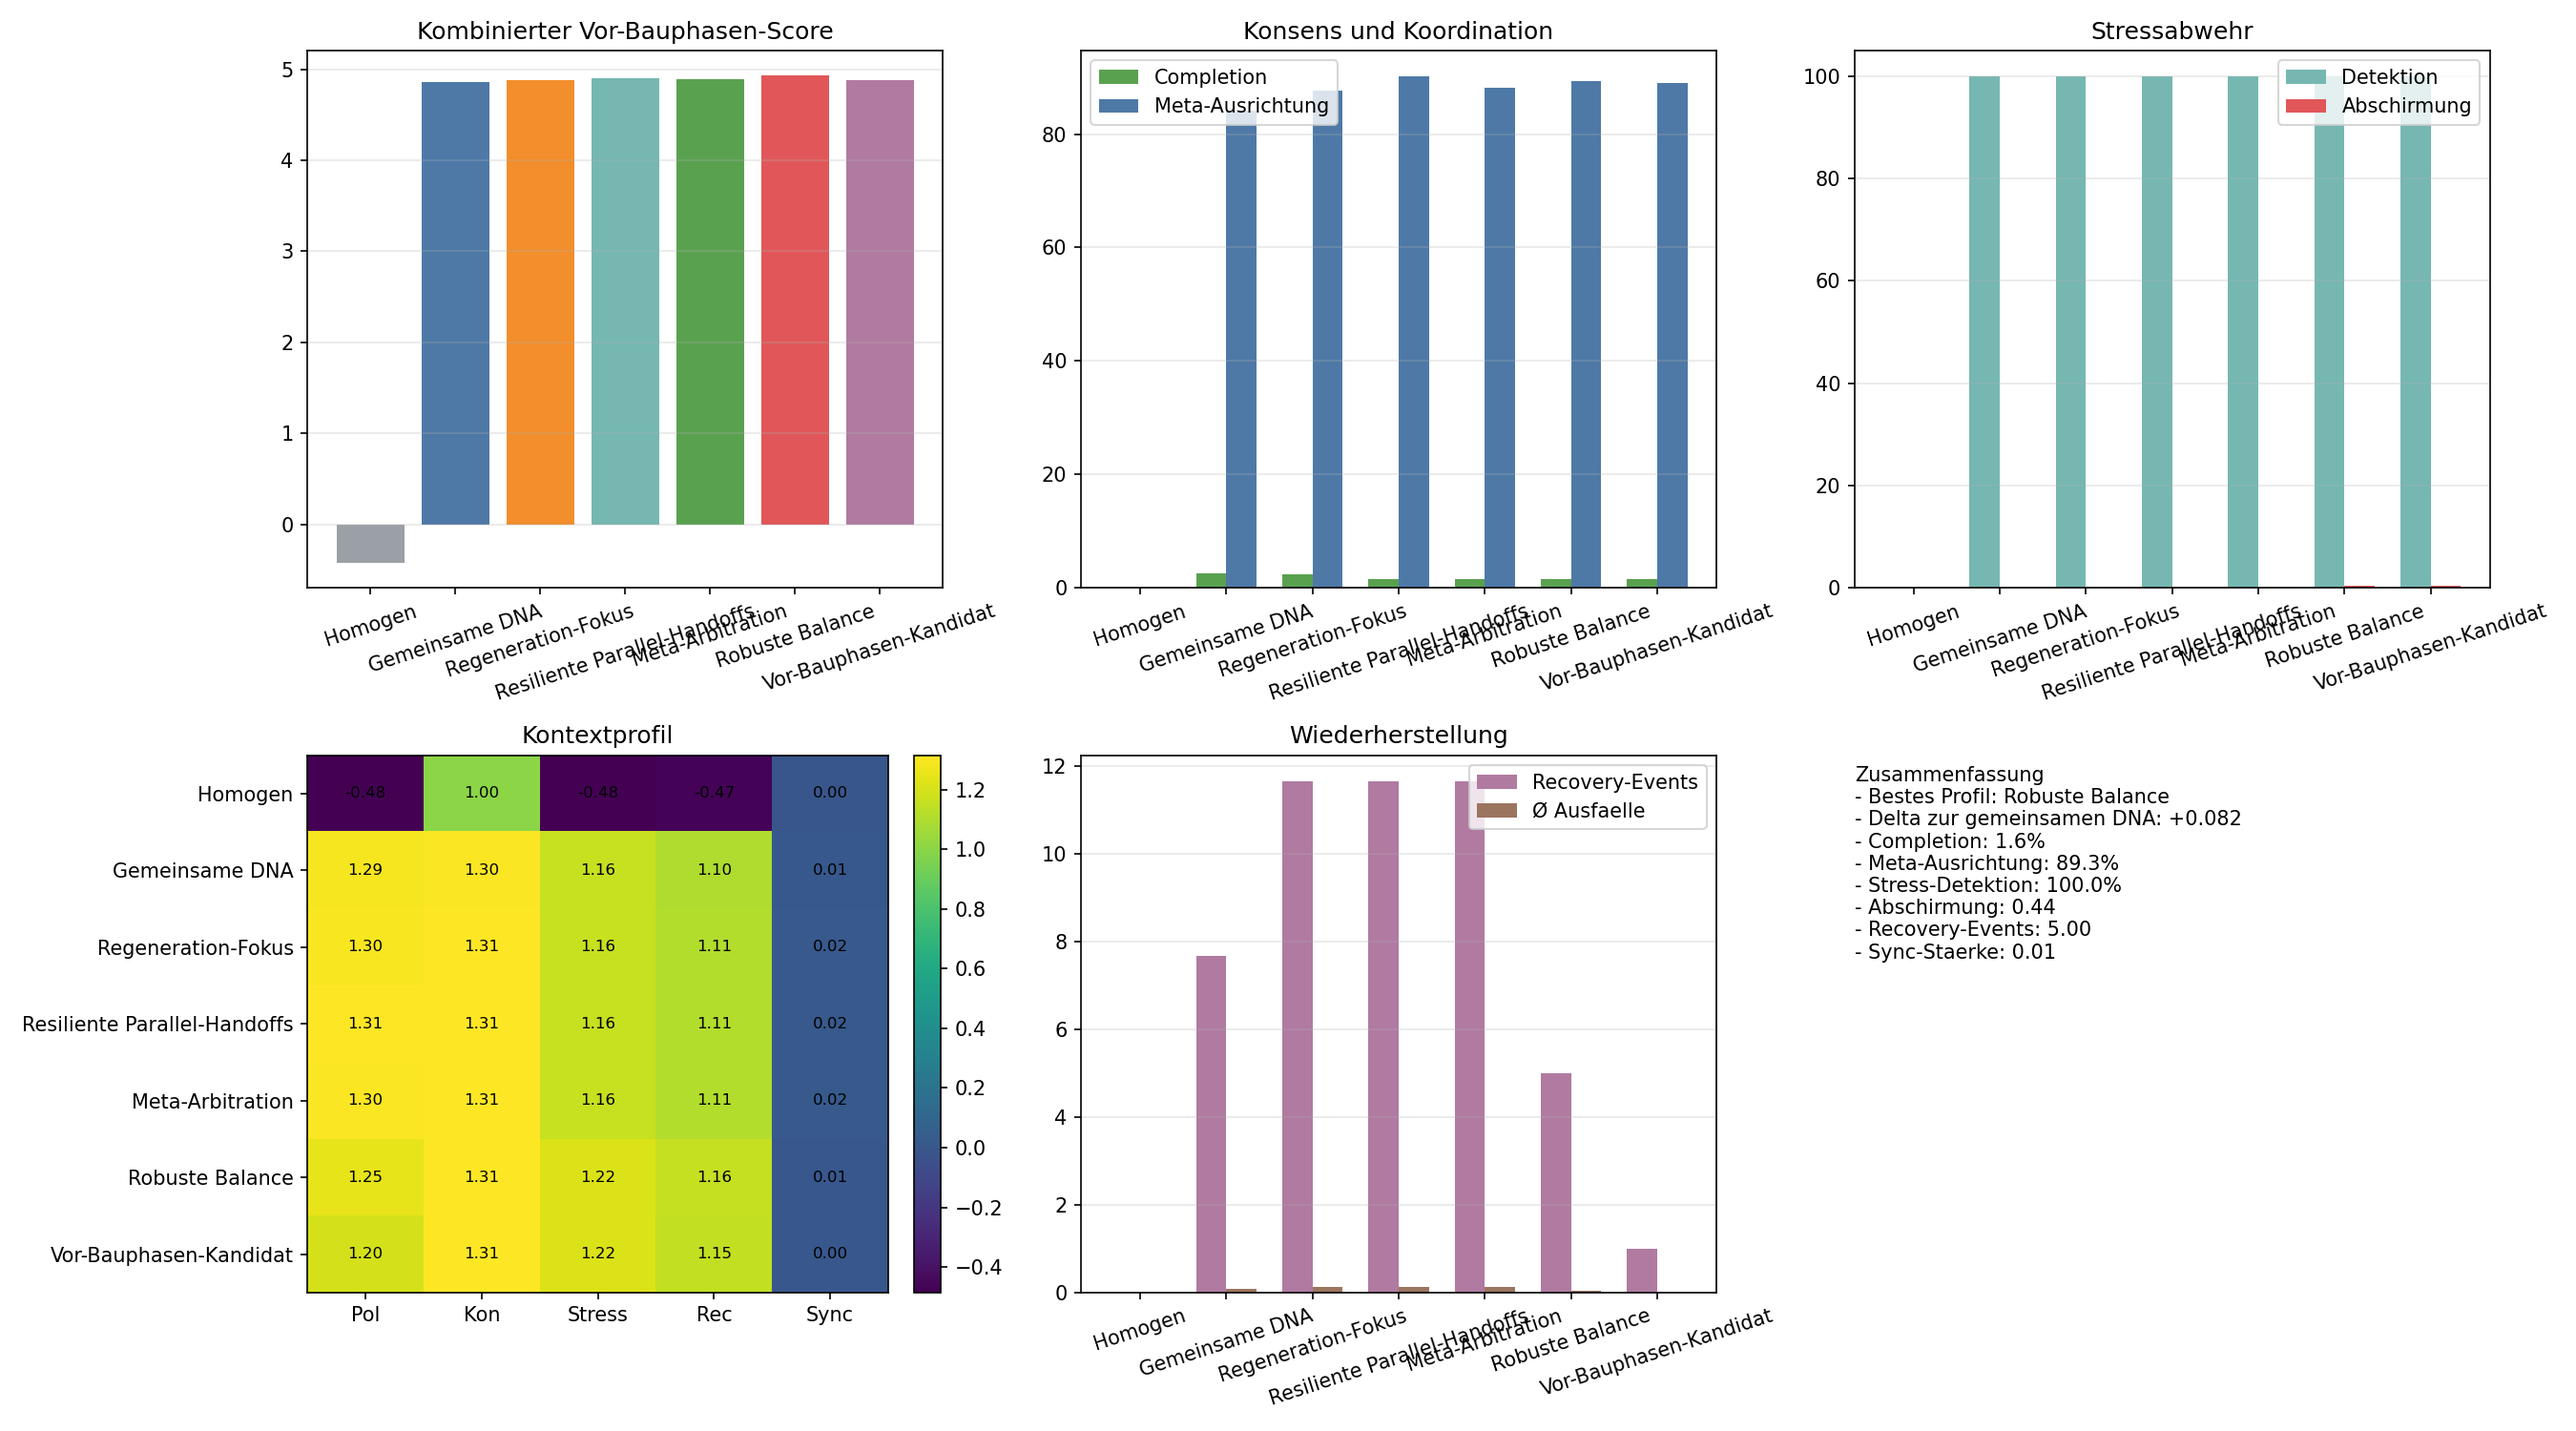
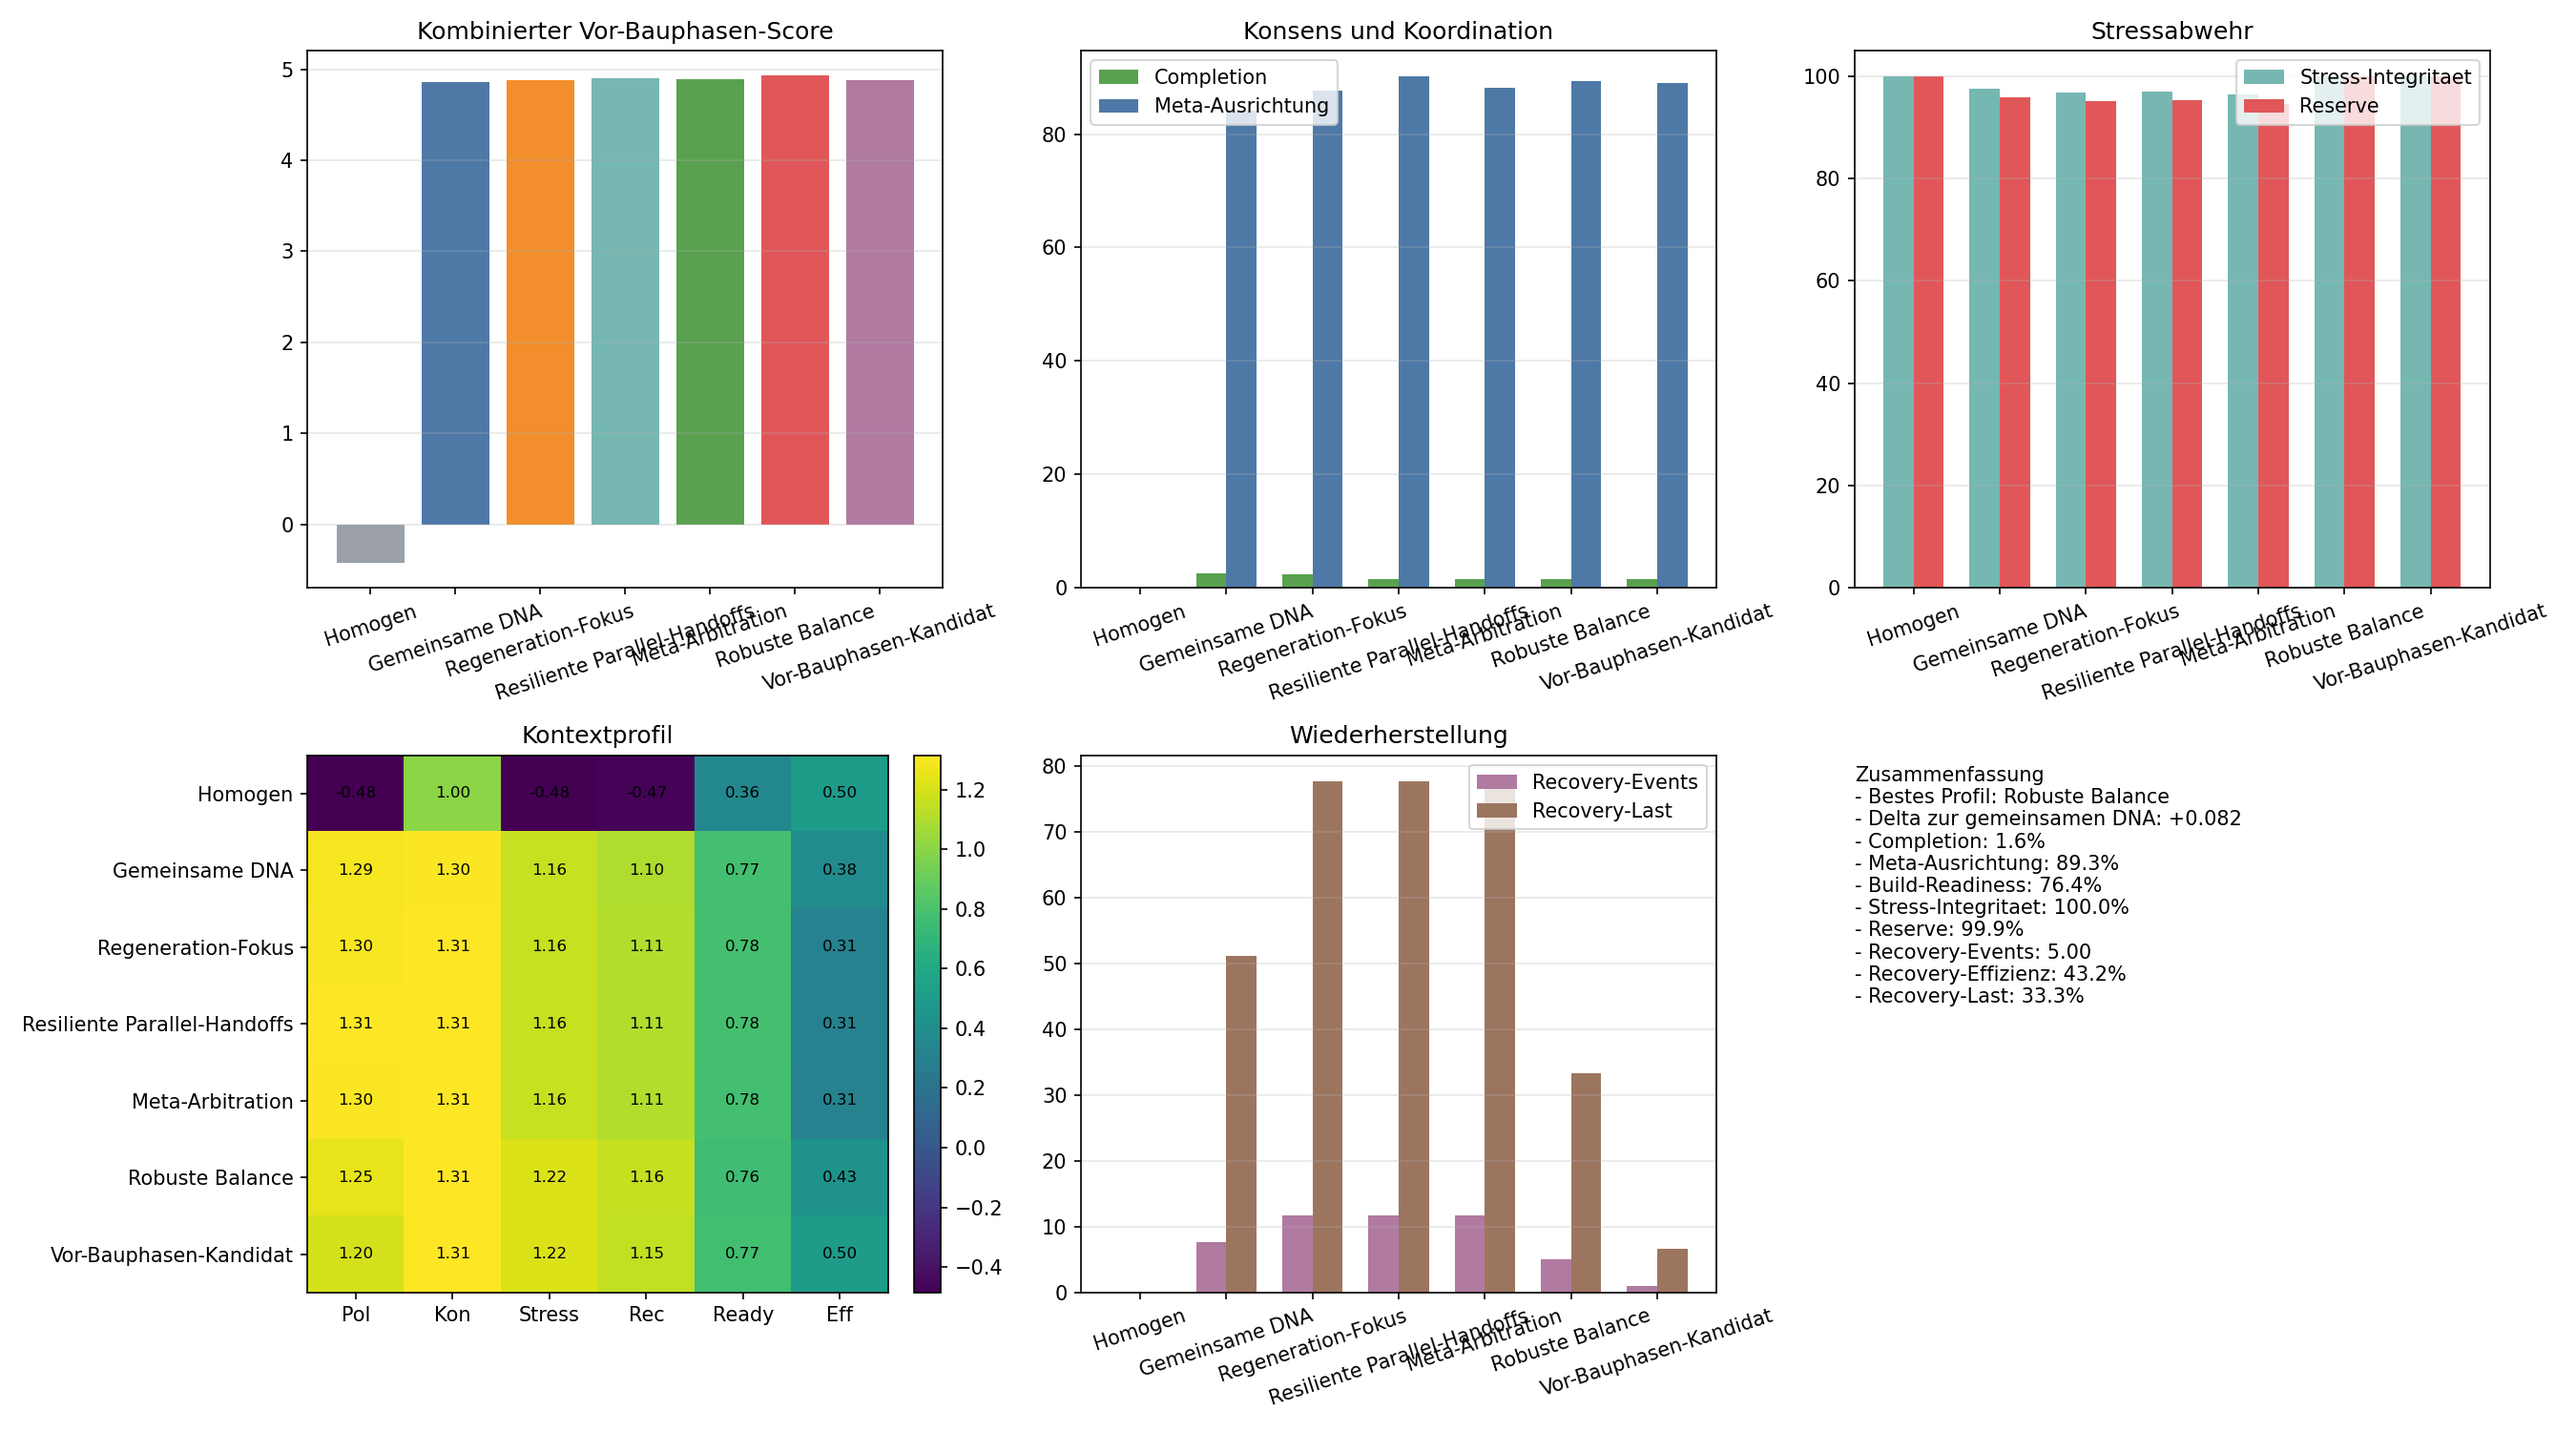
Refine prebuild readiness metrics

diff --git a/schwarm_vorbauphase.py b/schwarm_vorbauphase.py
@@ -162,25 +162,69 @@ def prebuild_profiles(katalog, params):
     ]
 
 
-def prebuild_metrics(result):
+def prebuild_metrics(result, params):
     workflow = result['workflow_metrics']
+    completion_rate = workflow.get('completion_rate', 0.0)
+    resource_efficiency = workflow.get('resource_efficiency', 0.0)
+    meta_alignment_rate = workflow.get('meta_alignment_rate', 0.0)
+    skill_alignment_rate = workflow.get('skill_alignment_rate', 0.0)
+    handoff_rate = workflow.get('handoff_rate', 0.0)
+    resource_share_rate = workflow.get('resource_share_rate', 0.0)
+    bottleneck_relief_rate = workflow.get('bottleneck_relief_rate', 0.0)
+    detection_rate = workflow.get('misinformation_detection_rate', 0.0)
+    corruption_mean = workflow.get('misinformation_corruption_mean', 0.0)
+    cluster_compromise_mean = workflow.get('cluster_compromise_mean', 0.0)
+    trust_shield_mean = workflow.get('trust_shield_mean', 0.0)
+    recovery_events_total = workflow.get('recovery_events_total', 0.0)
+    sync_strength_mean = workflow.get('sync_strength_mean', 0.0)
+    reconfiguration_switch_total = workflow.get('reconfiguration_switch_total', 0.0)
+    failed_agents_mean = workflow.get('failed_agents_mean', 0.0)
+    mission_success = mittelwert(list(result.get('mission_success_rates', {}).values()))
+    stress_integrity = max(0.0, 1.0 - corruption_mean)
+    compromise_reserve = max(0.0, 1.0 - cluster_compromise_mean)
+    failed_share = failed_agents_mean / max(1.0, params['agent_count'])
+    recovery_load = min(1.0, recovery_events_total / max(1.0, params['agent_count'] * 0.25))
+    recovery_efficiency = mittelwert(
+        [
+            min(1.0, sync_strength_mean),
+            max(0.0, 1.0 - failed_share),
+            max(0.0, 1.0 - recovery_load),
+            min(1.0, bottleneck_relief_rate),
+        ]
+    )
+    build_readiness = mittelwert(
+        [
+            completion_rate,
+            resource_efficiency,
+            meta_alignment_rate,
+            mission_success,
+            compromise_reserve,
+            stress_integrity,
+            recovery_efficiency,
+        ]
+    )
     return {
-        'completion_rate': workflow.get('completion_rate', 0.0),
-        'resource_efficiency': workflow.get('resource_efficiency', 0.0),
-        'meta_alignment_rate': workflow.get('meta_alignment_rate', 0.0),
-        'skill_alignment_rate': workflow.get('skill_alignment_rate', 0.0),
-        'handoff_rate': workflow.get('handoff_rate', 0.0),
-        'resource_share_rate': workflow.get('resource_share_rate', 0.0),
-        'bottleneck_relief_rate': workflow.get('bottleneck_relief_rate', 0.0),
-        'detection_rate': workflow.get('misinformation_detection_rate', 0.0),
-        'corruption_mean': workflow.get('misinformation_corruption_mean', 0.0),
-        'cluster_compromise_mean': workflow.get('cluster_compromise_mean', 0.0),
-        'trust_shield_mean': workflow.get('trust_shield_mean', 0.0),
-        'recovery_events_total': workflow.get('recovery_events_total', 0.0),
-        'sync_strength_mean': workflow.get('sync_strength_mean', 0.0),
-        'reconfiguration_switch_total': workflow.get('reconfiguration_switch_total', 0.0),
-        'failed_agents_mean': workflow.get('failed_agents_mean', 0.0),
-        'mission_success': mittelwert(list(result.get('mission_success_rates', {}).values())),
+        'completion_rate': completion_rate,
+        'resource_efficiency': resource_efficiency,
+        'meta_alignment_rate': meta_alignment_rate,
+        'skill_alignment_rate': skill_alignment_rate,
+        'handoff_rate': handoff_rate,
+        'resource_share_rate': resource_share_rate,
+        'bottleneck_relief_rate': bottleneck_relief_rate,
+        'detection_rate': detection_rate,
+        'corruption_mean': corruption_mean,
+        'stress_integrity': stress_integrity,
+        'cluster_compromise_mean': cluster_compromise_mean,
+        'compromise_reserve': compromise_reserve,
+        'trust_shield_mean': trust_shield_mean,
+        'recovery_events_total': recovery_events_total,
+        'sync_strength_mean': sync_strength_mean,
+        'reconfiguration_switch_total': reconfiguration_switch_total,
+        'failed_agents_mean': failed_agents_mean,
+        'recovery_load': recovery_load,
+        'recovery_efficiency': recovery_efficiency,
+        'build_readiness': build_readiness,
+        'mission_success': mission_success,
         'cross_group_cooperation': result['cross_group_cooperation_rate'],
         'consensus': result['final_consensus_score'],
         'polarization': result['final_polarization_index'],
@@ -215,7 +259,7 @@ def run_context(seed, params, eintrag, kontext):
         config.setdefault('resync_strength', params['resync_strength'])
 
     result = run_polarization_experiment(config, make_plot=False, print_summary=False)
-    result['prebuild_metrics'] = prebuild_metrics(result)
+    result['prebuild_metrics'] = prebuild_metrics(result, params)
     return result
 
 
@@ -275,12 +319,17 @@ def summarize_runs(runs, eintrag, context_list, agent_count):
         'bottleneck_relief_rate': {},
         'detection_rate': {},
         'corruption_mean': {},
+        'stress_integrity': {},
         'cluster_compromise_mean': {},
+        'compromise_reserve': {},
         'trust_shield_mean': {},
         'recovery_events_total': {},
         'sync_strength_mean': {},
         'reconfiguration_switch_total': {},
         'failed_agents_mean': {},
+        'recovery_load': {},
+        'recovery_efficiency': {},
+        'build_readiness': {},
         'mission_success': {},
         'cross_group_cooperation': {},
     }
@@ -335,9 +384,9 @@ def main():
         summaries.append(summary)
         print(
             f"{summary['label']:<28} Score={summary['combined_score']:+.3f} | "
-            f"Stress-Det={summary['detection_rate']['stress']:.1%} | "
-            f"Recovery={summary['recovery_events_total']['recovery']:.2f} | "
-            f"Shield={summary['trust_shield_mean']['recovery']:.2f}"
+            f"Readiness={summary['build_readiness']['recovery']:.1%} | "
+            f"Recovery-Eff={summary['recovery_efficiency']['recovery']:.1%} | "
+            f"Stress-Int={summary['stress_integrity']['stress']:.1%}"
         )
 
     best = max(summaries, key=lambda item: item['combined_score'])
@@ -348,9 +397,9 @@ def main():
         f"Delta zur gemeinsamen DNA {best['combined_score'] - baseline['combined_score']:+.3f}"
     )
     print(
-        f"Stress-Detektion {best['detection_rate']['stress']:.1%}, "
-        f"Recovery-Events {best['recovery_events_total']['recovery']:.2f}, "
-        f"Resync {best['sync_strength_mean']['recovery']:.2f}"
+        f"Build-Readiness {best['build_readiness']['recovery']:.1%}, "
+        f"Recovery-Effizienz {best['recovery_efficiency']['recovery']:.1%}, "
+        f"Stress-Integritaet {best['stress_integrity']['stress']:.1%}"
     )
 
     labels = [item['label'] for item in summaries]
@@ -388,16 +437,16 @@ def main():
 
     axes[0, 2].bar(
         x - width / 2,
-        [item['detection_rate']['stress'] * 100.0 for item in summaries],
+        [item['stress_integrity']['stress'] * 100.0 for item in summaries],
         width,
-        label='Detektion',
+        label='Stress-Integritaet',
         color='#76b7b2',
     )
     axes[0, 2].bar(
         x + width / 2,
-        [item['trust_shield_mean']['stress'] for item in summaries],
+        [item['compromise_reserve']['stress'] * 100.0 for item in summaries],
         width,
-        label='Abschirmung',
+        label='Reserve',
         color='#e15759',
     )
     axes[0, 2].set_title('Stressabwehr')
@@ -413,7 +462,8 @@ def main():
                 item['context_scores']['consensus'],
                 item['context_scores']['stress'],
                 item['context_scores']['recovery'],
-                item['sync_strength_mean']['recovery'],
+                item['build_readiness']['recovery'],
+                item['recovery_efficiency']['recovery'],
             ]
             for item in summaries
         ],
@@ -421,8 +471,8 @@ def main():
     )
     heatmap = axes[1, 0].imshow(heatmap_data, cmap='viridis', aspect='auto')
     axes[1, 0].set_title('Kontextprofil')
-    axes[1, 0].set_xticks([0, 1, 2, 3, 4])
-    axes[1, 0].set_xticklabels(['Pol', 'Kon', 'Stress', 'Rec', 'Sync'])
+    axes[1, 0].set_xticks([0, 1, 2, 3, 4, 5])
+    axes[1, 0].set_xticklabels(['Pol', 'Kon', 'Stress', 'Rec', 'Ready', 'Eff'])
     axes[1, 0].set_yticks(range(len(labels)))
     axes[1, 0].set_yticklabels(labels)
     for row in range(heatmap_data.shape[0]):
@@ -439,9 +489,9 @@ def main():
     )
     axes[1, 1].bar(
         x + width / 2,
-        [item['failed_agents_mean']['recovery'] for item in summaries],
+        [item['recovery_load']['recovery'] * 100.0 for item in summaries],
         width,
-        label='Ø Ausfaelle',
+        label='Recovery-Last',
         color='#9c755f',
     )
     axes[1, 1].set_title('Wiederherstellung')
@@ -460,10 +510,12 @@ def main():
             f"- Delta zur gemeinsamen DNA: {best['combined_score'] - baseline['combined_score']:+.3f}\n"
             f"- Completion: {best['completion_rate']['consensus']:.1%}\n"
             f"- Meta-Ausrichtung: {best['meta_alignment_rate']['consensus']:.1%}\n"
-            f"- Stress-Detektion: {best['detection_rate']['stress']:.1%}\n"
-            f"- Abschirmung: {best['trust_shield_mean']['stress']:.2f}\n"
+            f"- Build-Readiness: {best['build_readiness']['recovery']:.1%}\n"
+            f"- Stress-Integritaet: {best['stress_integrity']['stress']:.1%}\n"
+            f"- Reserve: {best['compromise_reserve']['stress']:.1%}\n"
             f"- Recovery-Events: {best['recovery_events_total']['recovery']:.2f}\n"
-            f"- Sync-Staerke: {best['sync_strength_mean']['recovery']:.2f}"
+            f"- Recovery-Effizienz: {best['recovery_efficiency']['recovery']:.1%}\n"
+            f"- Recovery-Last: {best['recovery_load']['recovery']:.1%}"
         ),
         va='top',
         fontsize=10,
